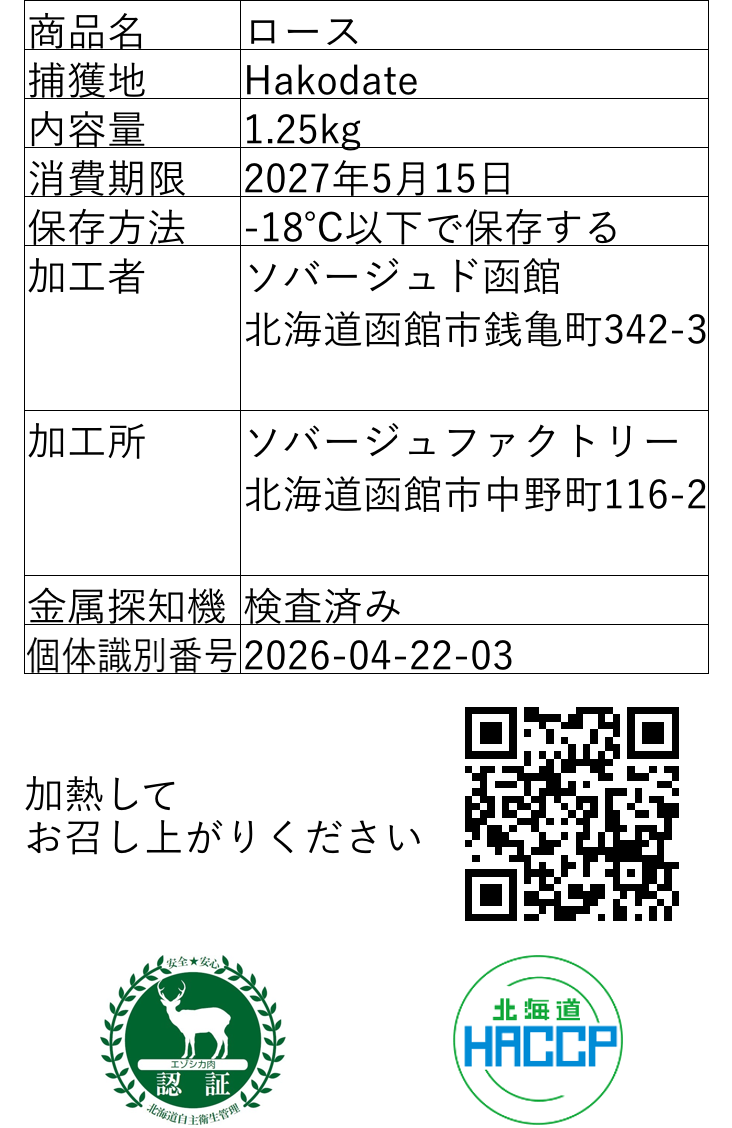
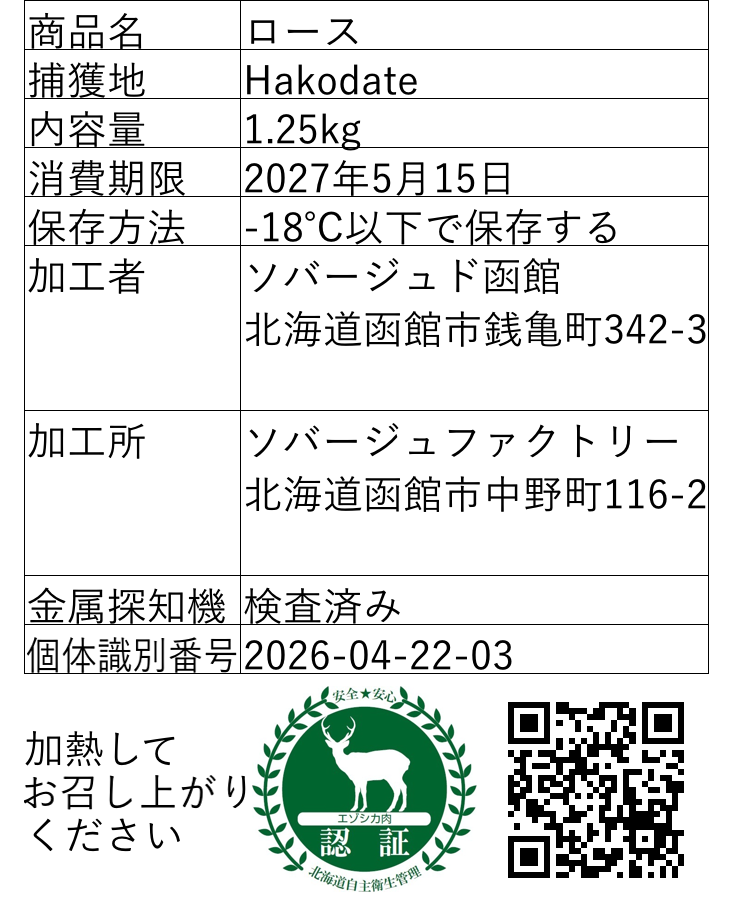
feat(label): JA traceable を警告 3 行+横エゾシカ認証ロゴ構成へ再編 (#271 v0.3.18)
- warningLines(ja) を 3 行 ("加熱して" / "お召し上がり" / "ください") に
- textQRRow に certPath フィールド追加: [警告(左)] [認証ロゴ(中)] [QR(右)] の
  3 カラム配置を 1 row で表現
- buildRows: traceable で EzoshikaCertified=true && locale != en のとき certPath
  に CertificationMarkFile を渡す。北海道 HACCP は廃止
- bottomLogosRow type を削除 (用途消滅)
- qrSizePx を contentWidth*40/100 → 33/100 に縮小し 3 カラムが収まるよう調整

Changed region(s): [[0.0301, 0.0, 0.9617, 1.0], [0.0301, 0.3717, 0.2104, 0.4027]]

diff --git a/internal/printer/label.go b/internal/printer/label.go
@@ -170,15 +170,19 @@ func (r *LabelRenderer) buildRows(data LabelData) []row {
 
 	// Traceable templates: QR is in textQRRow, skip imageSectionRow QR.
 	if isTraceableTemplate(data.Template) {
-		rows = append(rows, textQRRow{
-			lines: warningLines(data.Locale),
-			qrURL: data.QRCode,
-		})
-		// #271: JA traceable では warning text の下にロゴ (認証マーク + 北海道 HACCP)
-		// を追加。EN bilingual は別 renderer (renderENTraceable) で完結している。
-		if data.Locale != "en" {
-			rows = append(rows, bottomLogosRow{data: data, size: imageSize})
+		// #271: JA traceable では警告文の右側にエゾシカ認証ロゴを配置 (HACCP は廃止)。
+		// EN bilingual は別 renderer (renderENTraceable) で完結している。
+		certPath := ""
+		if data.Locale != "en" &&
+			data.EzoshikaCertified &&
+			data.Template != "traceable_bear" {
+			certPath = strings.TrimSpace(data.CertificationMarkFile)
 		}
+		rows = append(rows, textQRRow{
+			lines:    warningLines(data.Locale),
+			qrURL:    data.QRCode,
+			certPath: certPath,
+		})
 	} else if data.Template == "pet" {
 		// Pet: no warning text, no image section
 	} else if data.Template == "processed" {
@@ -546,57 +550,6 @@ func (row imageSectionRow) drawTraceableImages(img *image.RGBA, r *LabelRenderer
 	}
 }
 
-// bottomLogosRow は JA traceable ラベルで「加熱してお召し上がりください」の下に
-// 配置する横並びのロゴ画像セクション (#271)。
-// ezoshikaCertified=true なら認証マーク (ninsyo_logo.jpg) + HACCP の 2 個、
-// false なら HACCP のみ。traceable_bear では認証マーク非表示は別事情で従来通り。
-type bottomLogosRow struct {
-	data LabelData
-	size int
-}
-
-func (b bottomLogosRow) height() int {
-	if b.size <= 0 {
-		return 0
-	}
-	return b.size + imageSlotGap
-}
-
-func (b bottomLogosRow) draw(img *image.RGBA, r *LabelRenderer, y int) int {
-	if b.size <= 0 {
-		return y + b.height()
-	}
-	top := y + imageSlotGap/2
-
-	showEzoshika := b.data.EzoshikaCertified &&
-		b.data.Template != "traceable_bear" &&
-		strings.TrimSpace(b.data.CertificationMarkFile) != ""
-
-	if showEzoshika {
-		// 2 つを space-around 風に並べる: 左 ninsyo, 右 HACCP。
-		// slot 幅は (contentWidth - gap) / 2。
-		slotW := (contentWidth - imageSlotGap) / 2
-		certX := contentLeft
-		haccpX := certX + slotW + imageSlotGap
-		if certImg, err := r.loadAssetImage(strings.TrimSpace(b.data.CertificationMarkFile)); err == nil && certImg != nil {
-			rect := image.Rect(certX, top, certX+slotW, top+b.size)
-			r.drawImageWithinRect(img, certImg, rect)
-		}
-		if haccpImg, err := r.loadAssetImage("hokkaido_haccp.png"); err == nil && haccpImg != nil {
-			rect := image.Rect(haccpX, top, haccpX+slotW, top+b.size)
-			r.drawImageWithinRect(img, haccpImg, rect)
-		}
-	} else {
-		// HACCP のみ中央配置。
-		if haccpImg, err := r.loadAssetImage("hokkaido_haccp.png"); err == nil && haccpImg != nil {
-			haccpX := contentLeft + (contentWidth-b.size)/2
-			rect := image.Rect(haccpX, top, haccpX+b.size, top+b.size)
-			r.drawImageWithinRect(img, haccpImg, rect)
-		}
-	}
-	return y + b.height()
-}
-
 func (row imageSectionRow) drawLogoAt(img *image.RGBA, r *LabelRenderer, x, top, width, size int) {
 	if width <= 0 {
 		return
@@ -804,7 +757,8 @@ func warningLines(locale string) []string {
 	if strings.EqualFold(strings.TrimSpace(locale), "en") {
 		return []string{"Cook thoroughly", "before eating"}
 	}
-	return []string{"加熱して", "お召し上がりください"}
+	// JA: 3 行構成。textQRRow の右側にエゾシカ認証ロゴを並べるため高さを確保 (#271)。
+	return []string{"加熱して", "お召し上がり", "ください"}
 }
 
 func labelWidthRatioForTemplate(template string) float64 {
@@ -1112,6 +1066,8 @@ type textQRRow struct {
 	lines    []string
 	qrURL    string
 	fontSize float64
+	// certPath: 空でなければ警告文と QR の間にエゾシカ認証ロゴを描画する (#271)。
+	certPath string
 }
 
 func (t textQRRow) effectiveFontSize() float64 {
@@ -1122,7 +1078,8 @@ func (t textQRRow) effectiveFontSize() float64 {
 }
 
 func (t textQRRow) qrSizePx() int {
-	return contentWidth * 40 / 100
+	// 警告文(3 行)+認証ロゴ+QR を 1 行に納めるため QR は控えめに (#271)。
+	return contentWidth * 33 / 100
 }
 
 func (t textQRRow) height() int {
@@ -1143,17 +1100,40 @@ func (t textQRRow) draw(img *image.RGBA, r *LabelRenderer, y int) int {
 
 	rowHeight := t.height()
 	lh := lineHeight(fs)
+	qs := t.qrSizePx()
+	showCert := strings.TrimSpace(t.certPath) != ""
+
+	// レイアウト: [警告文(左)] [認証ロゴ(中央, optional)] [QR(右)]。
+	// 認証ロゴは QR と同サイズの正方形スロットに収める。
+	var certSize, textWidth int
+	if showCert {
+		certSize = qs
+		textWidth = contentWidth - qs - certSize - 2*imageSlotGap
+	} else {
+		textWidth = contentWidth - qs - imageSlotGap
+	}
+	if textWidth < 1 {
+		textWidth = 1
+	}
 
 	textTotalH := lh * len(t.lines)
 	ty := y + (rowHeight-textTotalH)/2
 	for _, line := range t.lines {
 		baseline := ty + int(fs*float64(labelDPI)/72)
-		drawString(img, face, line, contentLeft, baseline)
+		drawStringFitWidth(img, face, line, contentLeft, baseline, textWidth)
 		ty += lh
 	}
 
+	if showCert {
+		if certImg, err := r.loadAssetImage(strings.TrimSpace(t.certPath)); err == nil && certImg != nil {
+			certX := contentLeft + textWidth + imageSlotGap
+			certY := y + (rowHeight-certSize)/2
+			rect := image.Rect(certX, certY, certX+certSize, certY+certSize)
+			r.drawImageWithinRect(img, certImg, rect)
+		}
+	}
+
 	if strings.TrimSpace(t.qrURL) != "" {
-		qs := t.qrSizePx()
 		qrPng, err := qrcode.Encode(t.qrURL, qrcode.Medium, qs)
 		if err == nil {
 			qrImg, err := png.Decode(strings.NewReader(string(qrPng)))
